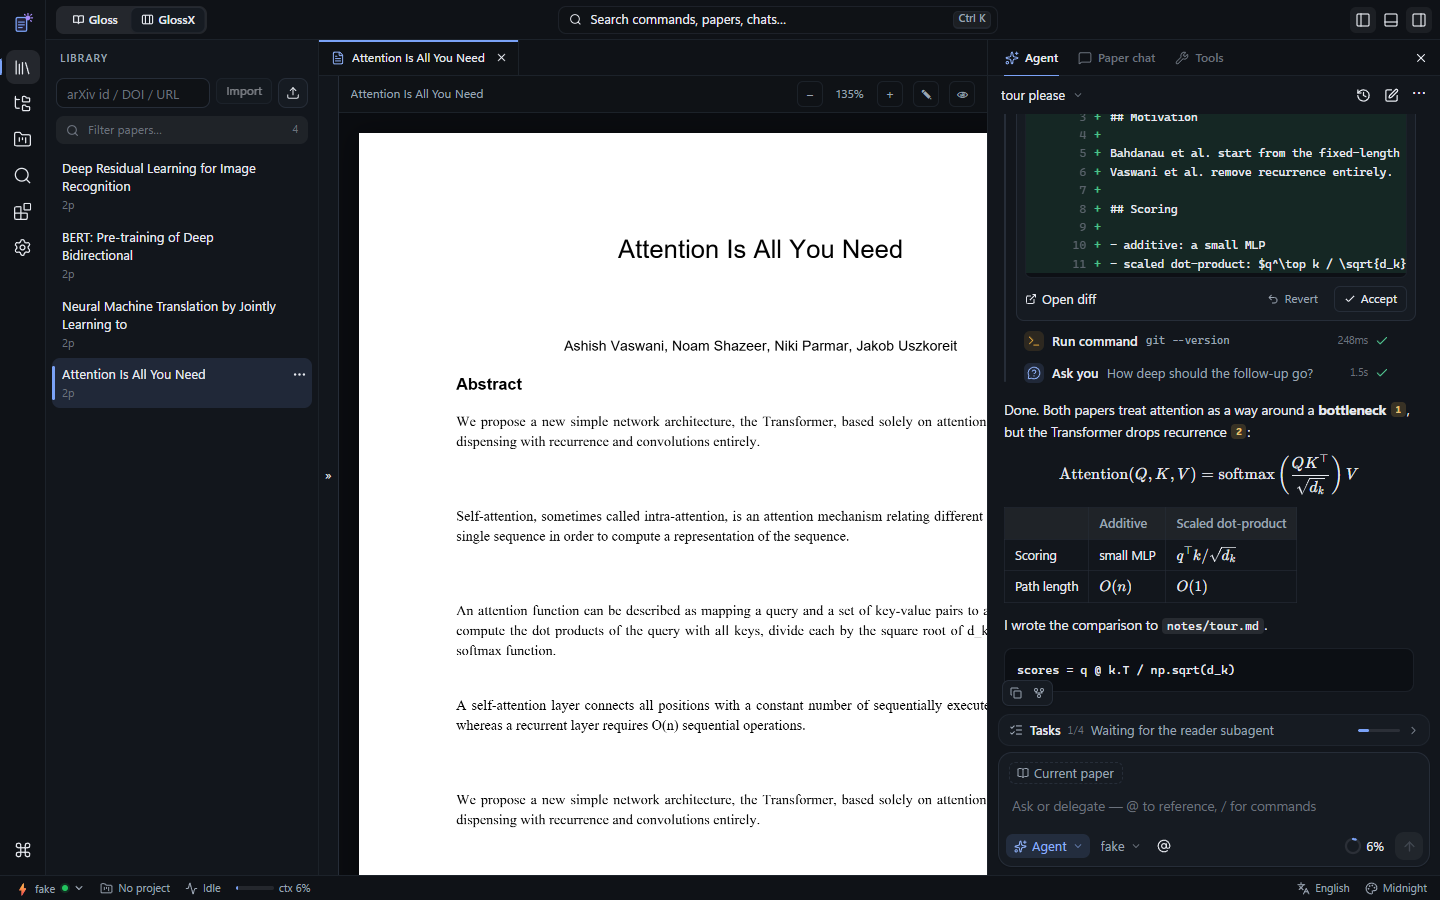
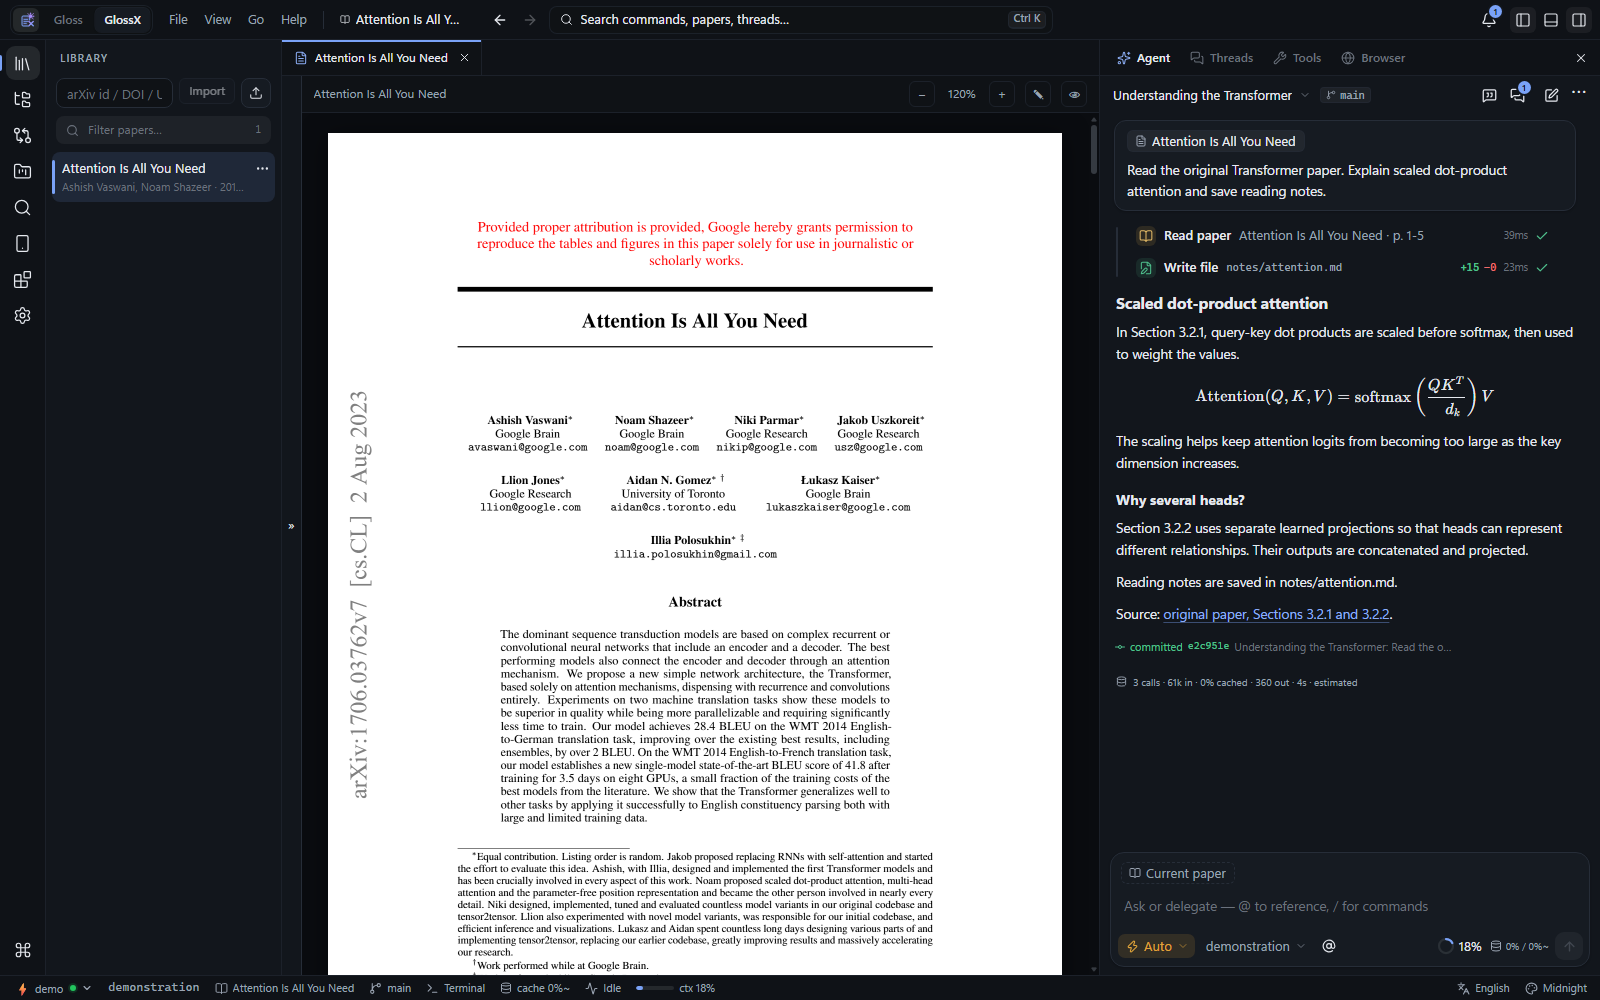
Prepare Gloss 2.0 website links, original-paper demos and draft releases

diff --git a/docs/releases.md b/docs/releases.md
@@ -1,6 +1,6 @@
 # Release downloads
 
-Tag builds publish these assets alongside the npm tarball:
+Tag builds attach these assets to a draft GitHub release alongside the npm tarball:
 
 | Platform | Release asset | Contents |
 | --- | --- | --- |
@@ -14,7 +14,7 @@ The Windows build targets x64; Windows on ARM runs it through x64 emulation.
 
 ## Version channels
 
-On the Gloss repository, Git tags that contain a prerelease suffix, such as `v2.0.0-beta.1`, create GitHub prereleases. For npm publication, dispatch the release workflow for the exact version tag and enable `publish_npm`. The workflow publishes prereleases to `next` and stable builds to `latest`.
+On the Gloss repository, Git tags that contain a prerelease suffix, such as `v2.0.0-beta.1`, create draft GitHub prereleases. Review the assets and release notes, then publish the draft in GitHub. For npm publication, dispatch the release workflow for the exact version tag and enable `publish_npm`. The workflow publishes prereleases to `next` and stable builds to `latest`.
 
 ## Linux and macOS
 
@@ -30,3 +30,15 @@ bunx gloss-local@latest
 This path needs Node.js 18+ and Python 3.11+. It does not require an `.exe`,
 `.app`, or `.dmg`. Debian / Ubuntu users may need `python3-venv`:
 `sudo apt install python3-venv`.
+
+## Preparing the 2.0 Beta
+
+1. Merge the reviewed glossX-integration application branch into the existing Gloss repository's main branch.
+2. Merge the glossX-integration website branch after the application branch. This deploys the updated homepage through the existing GitHub Pages workflow.
+3. Check CI for the main commit. Tag that commit v2.0.0-beta.1 and push the tag.
+4. The release workflow builds the source archive, npm tarball, and Windows portable executable and attaches them to a draft prerelease. Copy the reviewed text from [the Beta release notes](release-notes/v2.0.0-beta.1.md) into the draft.
+5. Check the asset names and open the portable application, then publish the draft with the prerelease flag enabled.
+6. To publish npm, dispatch the release workflow for the v2.0.0-beta.1 tag with publish_npm enabled. It publishes to the next dist-tag. Configure NPM_TOKEN or npm trusted publishing on the Gloss repository first.
+7. Confirm the GitHub download and npm next version before changing the homepage's source-first install section to package downloads.
+
+The current 1.x npm latest tag and the existing GitHub latest stable release continue to serve users until a stable 2.0 release is explicitly published. For stable 2.0, bump all runtime/package versions to 2.0.0 before tagging v2.0.0.

diff --git a/docs/release-notes/v2.0.0-beta.1.md b/docs/release-notes/v2.0.0-beta.1.md
@@ -1,0 +1,38 @@
+# Gloss 2.0 Beta — introducing the GlossX research workbench
+
+Gloss 2.0 adds a research workbench to the local AI paper reader. You can keep reading and annotating in the classic interface, then switch to GlossX when a question becomes a project.
+
+## What's new
+
+- Persistent agent sessions, project threads, and an inbox for approvals and completed work.
+- A multi-tab workbench for papers, notes, code, and supported Office documents.
+- Project workspaces with Git history, file diffs, branches, and checkpoints.
+- Tools for reading your library, browsing the web, writing files, and executing code, with permission modes and approvals.
+- Skills, MCP servers, commands, hooks, and research workflows.
+- Mobile pairing to read and continue sessions from a phone or tablet.
+- Paper organization, reading perspectives, Markdown notes, and visual explanations.
+
+## Upgrading from Gloss 1.x
+
+Close Gloss and back up the data directory before opening the Beta. Existing papers, notes, highlights, chats, and settings remain in the Gloss library. New installations open in the classic reader, and the top-bar switch opens GlossX.
+
+If you used a separate GlossX preview library, choose its directory with GLOSS_DATA_DIR. When both libraries exist, Gloss opens the classic library by default. See [data locations](https://github.com/computersniper/gloss/blob/main/README.md#-data-location).
+
+## Downloads
+
+- Windows x64 — Gloss.exe or Gloss-windows-x64.exe.
+- Windows, macOS, and Linux local web app — gloss-local-2.0.0-beta.1.tgz.
+- After npm publication — npx gloss-local@next.
+- The Windows portable application includes its runtime. The npm/web app needs Node.js 18+ and Python 3.11+.
+
+---
+
+## 中文
+
+Gloss 2.0 在本地 AI 论文阅读器中加入 GlossX 研究工作台。经典阅读器仍用于阅读、翻译、批注和笔记，GlossX 提供持续的 Agent 会话、项目工作区、Git 历史、工具审批、内置浏览器与移动端会话接续。
+
+升级前请关闭旧版并备份数据目录。新版默认识别已有 Gloss 文献库，首次启动进入经典阅读器。使用过独立 GlossX 预览库时，可以用 GLOSS_DATA_DIR 指定该目录；两套库同时存在时，默认打开经典 Gloss 的库。
+
+Windows 下载 Gloss.exe。npm 发布后可用 npx gloss-local@next 体验 Beta，稳定版本仍通过 latest 渠道获取。
+
+[项目官网](https://computersniper.github.io/gloss-site/)

diff --git a/README.md b/README.md
@@ -3,6 +3,7 @@
 </p>
 
 <p align="center">
+  <a href="https://computersniper.github.io/gloss-site/"><b>Website</b></a> ·
   <a href="./README.zh.md"><b>中文</b></a> ·
   <a href="#-quick-start"><b>Quick start</b></a> ·
   <a href="#-features"><b>Features</b></a> ·
@@ -75,7 +76,7 @@ Read PDFs, annotate papers, and ask questions with links back to the source. In 
   </tr>
 </table>
 
-<sub>Screenshots are from real sessions driven by a test model (shown as <code>fake</code> in the composer).</sub>
+<sub>Some workbench screenshots use a deterministic demonstration provider. The Attention example displays the [original arXiv paper](https://arxiv.org/abs/1706.03762).</sub>
 
 Models can be your local **Claude Code CLI**, your local **Codex CLI**, the **Anthropic API**, or
 **any OpenAI-compatible endpoint**.
@@ -179,7 +180,7 @@ If you use Gloss 1.x, close it and back up its data directory first. See [Data l
 Requires Git, Node.js 20.19+ (24 recommended) and Python 3.11+:
 
 ```bash
-git clone https://github.com/computersniper/gloss.git
+git clone --branch glossX-integration https://github.com/computersniper/gloss.git
 cd gloss
 npm run setup
 npm start
@@ -301,13 +302,12 @@ Close the older app and back up its data directory before upgrading. Global agen
 
 ## 📖 Classic Gloss mode
 
-Screenshots of the classic Gloss reader (the upstream project is
-[computersniper/gloss](https://github.com/computersniper/gloss)):
+The classic reader remains available in Gloss 2.0:
 
 <table>
   <tr>
     <td width="50%" valign="top">
-      <img src="./docs/reader-summary.png" alt="Classic Gloss reader: a paper PDF beside an AI-generated structured summary" />
+      <img src="./docs/screenshots/classic-attention.png" alt="Classic Gloss reader: a paper PDF beside an AI-generated structured summary" />
     </td>
     <td width="25%" valign="top">
       <img src="./docs/app-mindmap.png" alt="Classic Gloss interactive mind map with a paper concept detail panel" />

diff --git a/README.zh.md b/README.zh.md
@@ -3,6 +3,7 @@
 </p>
 
 <p align="center">
+  <a href="https://computersniper.github.io/gloss-site/"><b>官网</b></a> ·
   <a href="./README.md"><b>English</b></a> ·
   <a href="#-快速开始"><b>快速开始</b></a> ·
   <a href="#-功能一览"><b>功能</b></a> ·
@@ -75,7 +76,7 @@
   </tr>
 </table>
 
-<sub>截图来自用测试模型驱动的真实会话（输入框里显示为 <code>fake</code>）。</sub>
+<sub>部分工作台截图使用测试模型演示。Attention 示例展示 [arXiv 正式原文](https://arxiv.org/abs/1706.03762)。</sub>
 
 模型可以是本机的 **Claude Code CLI**、本机的 **Codex CLI**、**Anthropic API**，或 **任意 OpenAI 兼容端点**。
 
@@ -174,7 +175,7 @@ npx gloss-local@next
 需要 Git、Node.js 20.19+（推荐用 24） 和 Python 3.11+：
 
 ```bash
-git clone https://github.com/computersniper/gloss.git
+git clone --branch glossX-integration https://github.com/computersniper/gloss.git
 cd gloss
 npm run setup
 npm start
@@ -292,12 +293,12 @@ Gloss 2.0 默认沿用经典 Gloss 的论文库、配置和文件目录：
 
 ## 📖 经典 Gloss 模式
 
-经典 Gloss 阅读器的截图（上游项目为 [computersniper/gloss](https://github.com/computersniper/gloss)）：
+Gloss 2.0 中保留的经典阅读器：
 
 <table>
   <tr>
     <td width="50%" valign="top">
-      <img src="./docs/reader-summary.png" alt="经典 Gloss 阅读器：论文 PDF 旁展示 AI 生成的结构化摘要" />
+      <img src="./docs/screenshots/classic-attention.png" alt="经典 Gloss 阅读器：论文 PDF 旁展示 AI 生成的结构化摘要" />
     </td>
     <td width="25%" valign="top">
       <img src="./docs/app-mindmap.png" alt="经典 Gloss 交互式思维导图与论文概念详情面板" />
